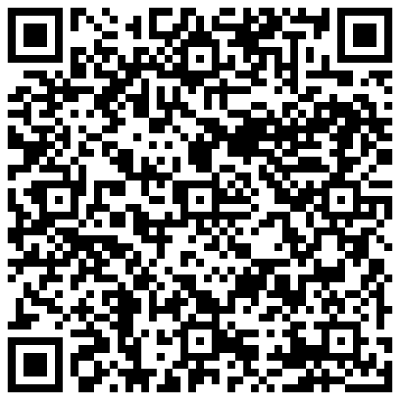
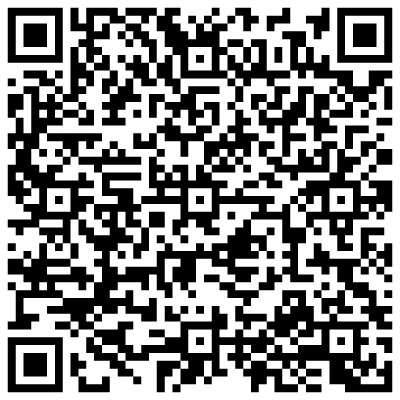
# fix done

diff --git a/index.html b/index.html
@@ -143,7 +143,7 @@
     <p class="string_headline"></p>
     <p class="string_desc"></p>
     <div style="text-align: left; padding: 0 20px;">
-      <a href="https://apk.hichat.tools/download/HiChat_2021-12-14_v1.1.0-release.apk" target="_blank">
+      <a href="https://apk.hichat.info/download/HiChat_2021-12-23_v1.1.1-release.apk" target="_blank">
         <div class="download-btn">
           <div>
             <img src="./static/img/icon/android.png" alt="">
@@ -246,7 +246,7 @@
     </ul>
     <div style="position: relative; top:2.5em;">
         <div class="wrap-h5-footer">
-          <a href="https://apk.hichat.tools/download/HiChat_2021-12-14_v1.1.0-release.apk" target="_blank">
+          <a href="https://apk.hichat.info/download/HiChat_2021-12-23_v1.1.1-release.apk" target="_blank">
             <div class="download-btn" style="margin-top: -22vw;">
               <div>
                 <img src="./static/img/icon/android.png" alt="">
@@ -324,11 +324,13 @@
             <p class="string_desc"></p>
           </div>
           <div class="download-area">
-            <div class="download-btn">
-              <img src="./static/img/icon/android.png" alt="" style="margin:0; position:relative;top:8px;">
-              <p class="android-text">Download APK</p><br>
-              <p class="string_app_apk"></p>
-            </div>
+            <a href="https://apk.hichat.info/download/HiChat_2021-12-23_v1.1.1-release.apk" target="_blank">
+              <div class="download-btn">
+                <img src="./static/img/icon/android.png" alt="">
+                <p class="android-text">Download APK</p><br>
+                <p class="string_app_apk"></p>
+              </div>
+            </a>
             <div class="download-qr">
               <span class="triangle"></span>
               <p class="string_qr_download"></p>
@@ -450,11 +452,13 @@
         <p class="string_qr_block_5 sub-title-horizon"></p>
         <p class="string_qr_block_5_1 thi-title"></p>
         <div class="download-area">
-          <div class="download-btn">
-            <img src="./static/img/icon/android.png" alt="">
-            <p class="android-text">Download APK</p><br>
-            <p class="string_app_apk"></p>
-          </div>
+          <a href="https://apk.hichat.info/download/HiChat_2021-12-23_v1.1.1-release.apk" target="_blank">
+            <div class="download-btn">
+              <img src="./static/img/icon/android.png" alt="">
+              <p class="android-text">Download APK</p><br>
+              <p class="string_app_apk"></p>
+            </div>
+          </a>
           <div class="download-qr">
             <span class="triangle"></span>
             <p class="string_qr_download"></p>

diff --git a/static/js/index.js b/static/js/index.js
@@ -147,9 +147,9 @@ $(document).ready(function () {
     loadProperties(i18nLanguage);
 
     /* 点击显示 QRcode */
-    $('.download-btn').on('click', function() {
-        $('.download-qr').toggleClass('show');
-    })
+    // $('.download-btn').on('click', function() {
+    //     $('.download-qr').toggleClass('show');
+    // })
     $('.download-qr').on('click', function() {
         $('.download-qr').removeClass('show');
     })
